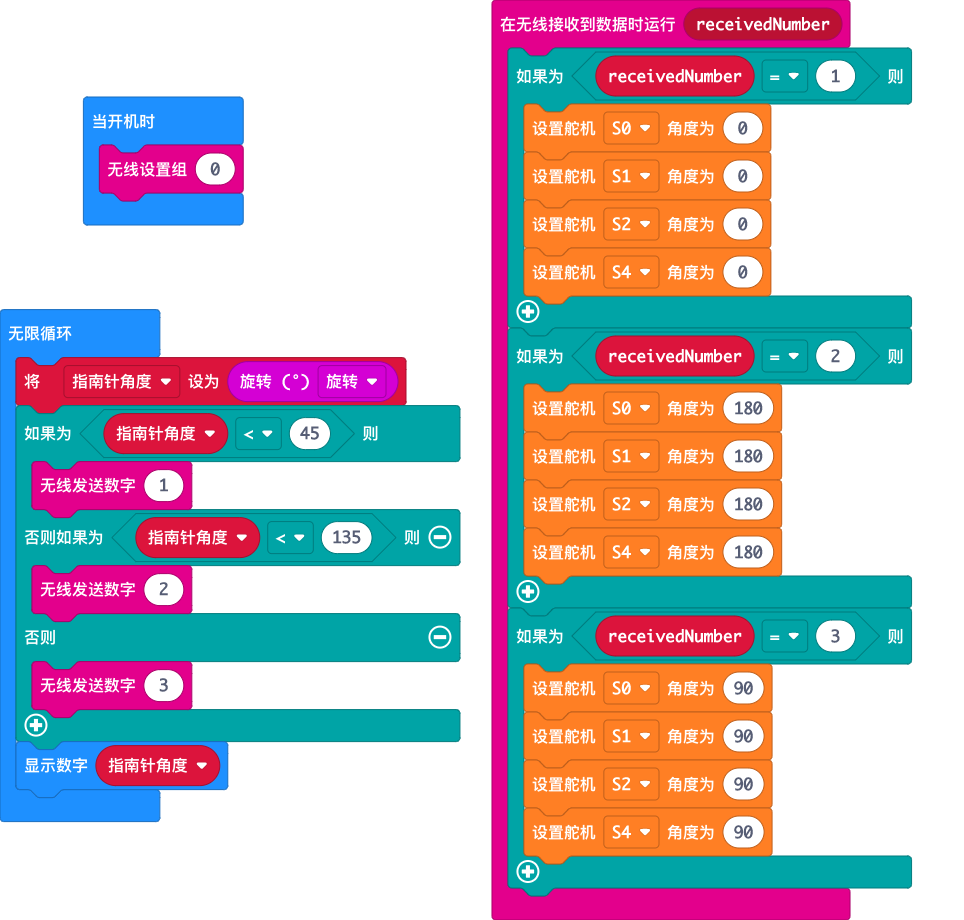
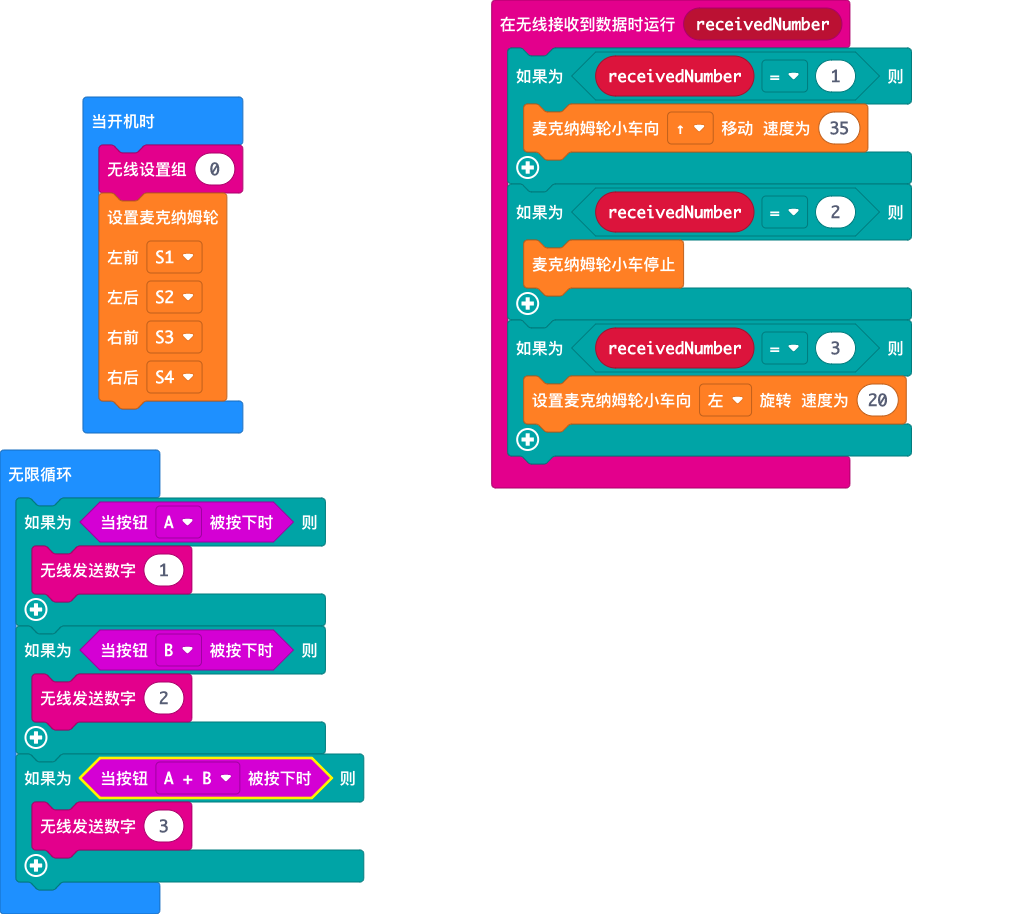
更新 main.blocks, main.ts

diff --git a/main.ts b/main.ts
@@ -1,33 +1,29 @@
 radio.onReceivedNumber(function (receivedNumber) {
     if (receivedNumber == 1) {
-        wuKong.setServoAngel(wuKong.ServoList.S0, 0)
-        wuKong.setServoAngel(wuKong.ServoList.S1, 0)
-        wuKong.setServoAngel(wuKong.ServoList.S2, 0)
-        wuKong.setServoAngel(wuKong.ServoList.S4, 0)
+        wuKong.mecanumRun(wuKong.RunList.Front, 35)
     }
     if (receivedNumber == 2) {
-        wuKong.setServoAngel(wuKong.ServoList.S0, 180)
-        wuKong.setServoAngel(wuKong.ServoList.S1, 180)
-        wuKong.setServoAngel(wuKong.ServoList.S2, 180)
-        wuKong.setServoAngel(wuKong.ServoList.S4, 180)
+        wuKong.mecanumStop()
     }
     if (receivedNumber == 3) {
-        wuKong.setServoAngel(wuKong.ServoList.S0, 90)
-        wuKong.setServoAngel(wuKong.ServoList.S1, 90)
-        wuKong.setServoAngel(wuKong.ServoList.S2, 90)
-        wuKong.setServoAngel(wuKong.ServoList.S4, 90)
+        wuKong.mecanumSpin(wuKong.TurnList.Left, 20)
     }
 })
-let 指南针角度 = 0
 radio.setGroup(0)
+wuKong.mecanumWheel(
+wuKong.ServoList.S1,
+wuKong.ServoList.S2,
+wuKong.ServoList.S3,
+wuKong.ServoList.S4
+)
 basic.forever(function () {
-    指南针角度 = input.rotation(Rotation.Pitch)
-    if (指南针角度 < 45) {
+    if (input.buttonIsPressed(Button.A)) {
         radio.sendNumber(1)
-    } else if (指南针角度 < 135) {
+    }
+    if (input.buttonIsPressed(Button.B)) {
         radio.sendNumber(2)
-    } else {
+    }
+    if (input.buttonIsPressed(Button.AB)) {
         radio.sendNumber(3)
     }
-    basic.showNumber(指南针角度)
 })
